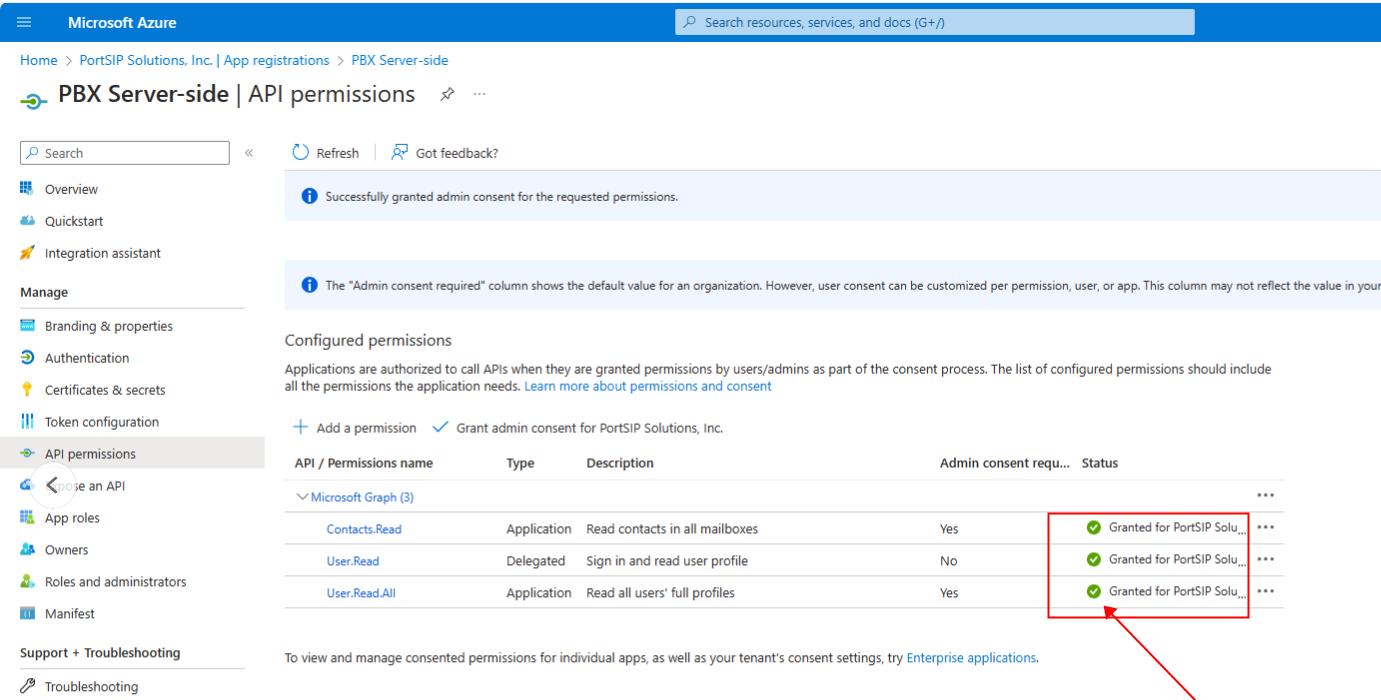
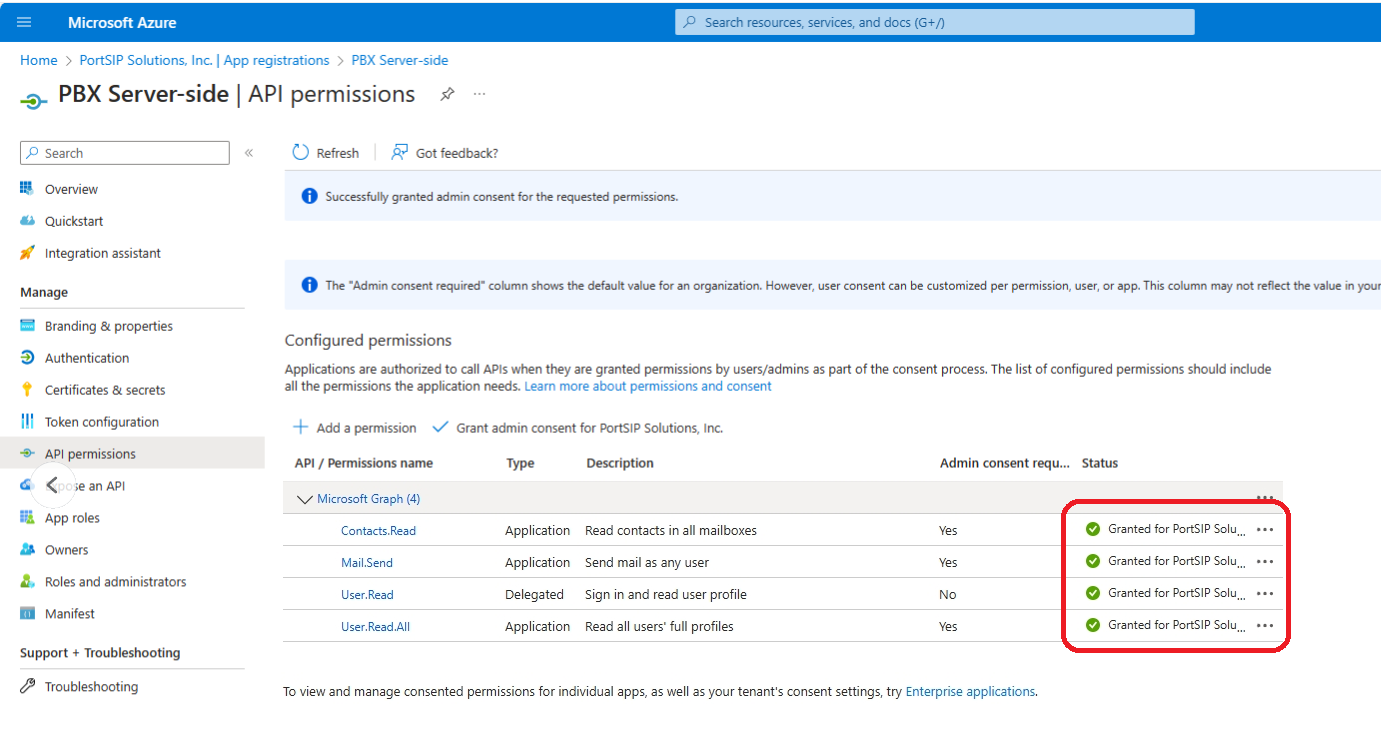
GITBOOK-2526: No subject

diff --git a/portsip-communications-solution/portsip-pbx-administration-guide/integrations/microsoft-365-integration.md b/portsip-communications-solution/portsip-pbx-administration-guide/integrations/microsoft-365-integration.md
@@ -114,6 +114,8 @@ In the Microsoft Graph page as shown below, click on **Application permissions**
 
 Once all required permissions have been successfully granted, it will appear as shown in the screenshot below.
 
+If you want to use the MS365 mail server to send the email notifications, you have to grant the **Mail.Send** permission as well.
+
 <figure><img src="../../../.gitbook/assets/ms365-permissions-3.png" alt=""><figcaption></figcaption></figure>
 
 ### Configuring User Synchronization <a href="#h.qstanjnw2wlt" id="h.qstanjnw2wlt"></a>
